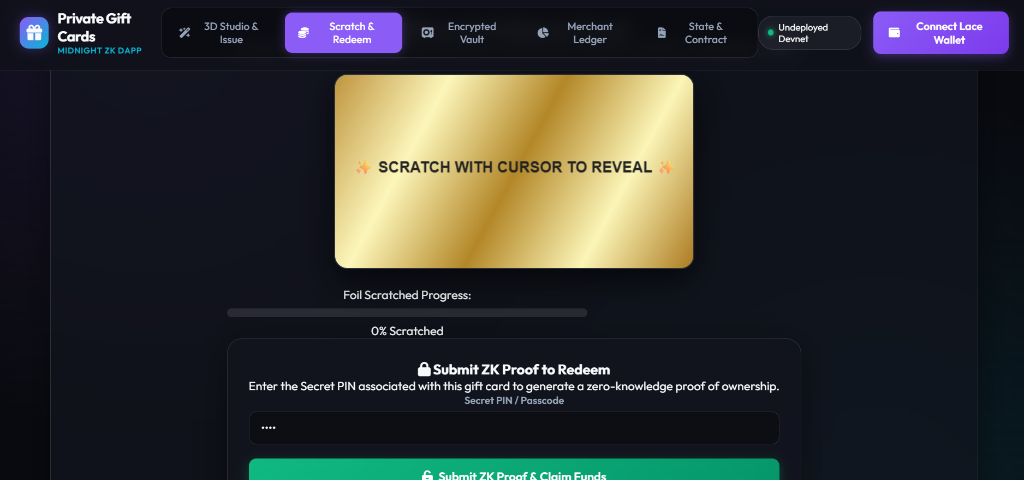
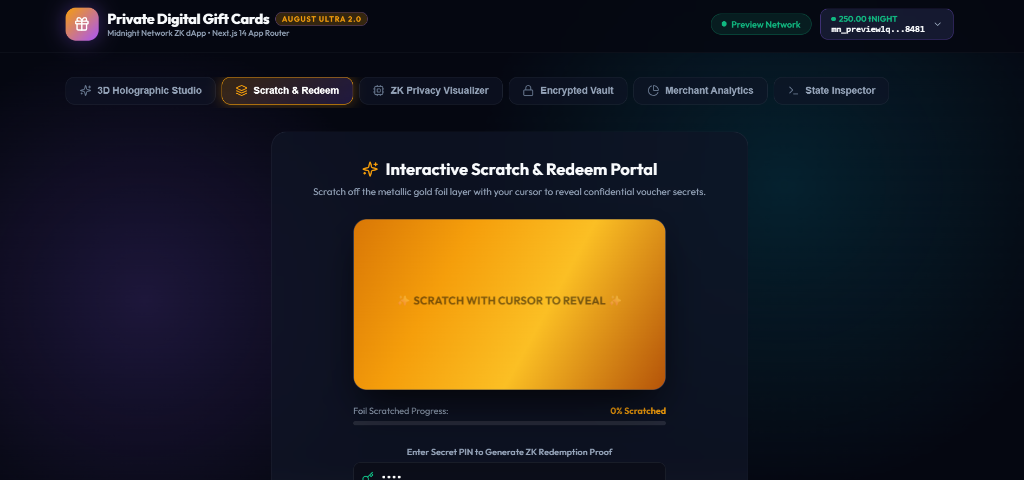
docs: update Interactive Scratch & Redeem Portal screenshot and heading

diff --git a/README.md b/README.md
@@ -28,8 +28,8 @@
 ### 1. 3D Holographic Studio & Voucher Issuance
 ![3D Holographic Studio & Voucher Issuance](assets/01-3d-studio-issue.png)
 
-### 2. Scratch & Redeem Portal
-![Scratch & Redeem](assets/02-scratch-redeem.png)
+### 2. Interactive Scratch & Redeem Portal
+![Interactive Scratch & Redeem Portal](assets/02-scratch-redeem.png)
 
 ### 3. Encrypted Vault Tab
 ![Encrypted Vault](assets/03-encrypted-vault.png)
